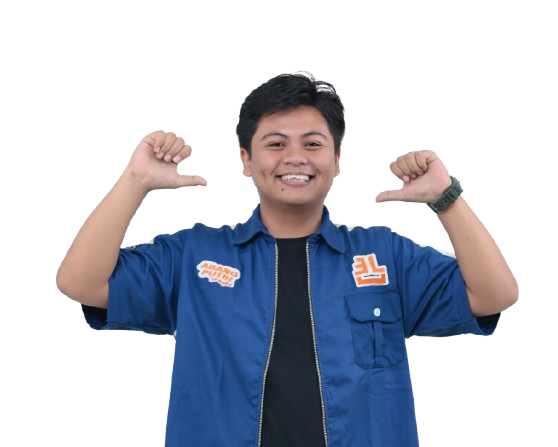
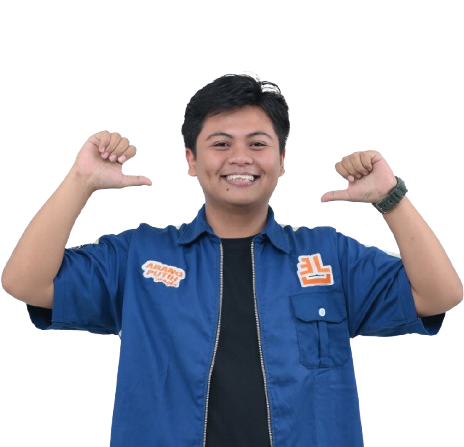
🚨abbbbtttt🚧

diff --git a/index.html b/index.html
@@ -83,7 +83,7 @@
               src="./assets/about.png"
               alt="Profile Image"
               width="450"
-              height="350"
+              height="400"
             />
           </div>
           <div class="about-wrapper__info">
